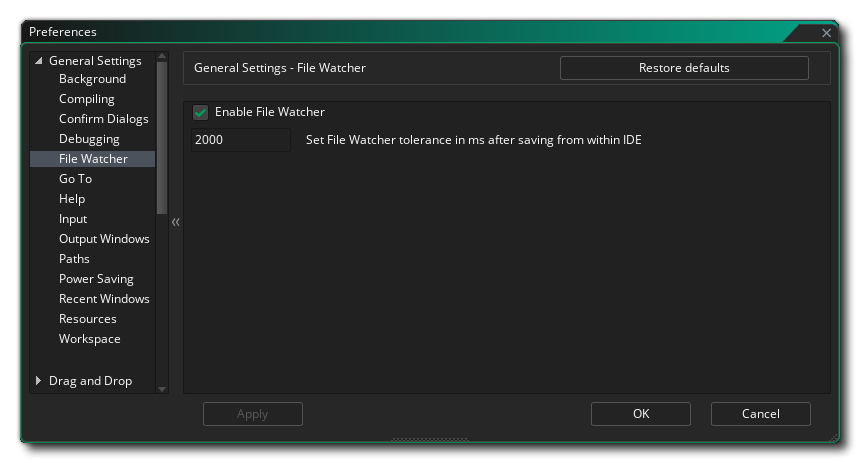
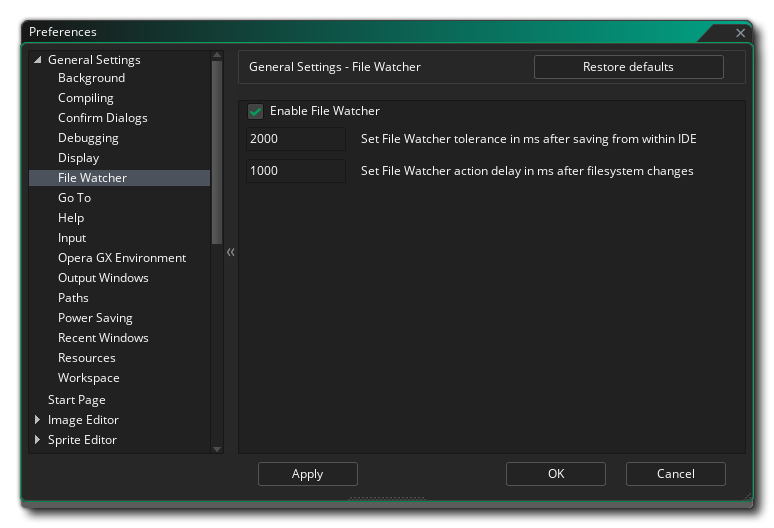
docs(feature): File Watcher Preferences page does not describe a "delay in filesystem changes" addition https://github.com/YoYoGames/GameMaker-Bugs/issues/6309
Updated the screenshot and added a description for the preference

diff --git a/Manual/contents/Setting_Up_And_Version_Information/IDE_Preferences/General/File_Watcher.htm b/Manual/contents/Setting_Up_And_Version_Information/IDE_Preferences/General/File_Watcher.htm
@@ -4,7 +4,7 @@
 <head>
   <meta http-equiv="Content-Type" content="text/html; charset=utf-8" />
   <title>File Watcher</title>
-  <meta name="generator" content="Adobe RoboHelp 2019" />
+  <meta name="generator" content="Adobe RoboHelp 2022" />
   <link rel="stylesheet" href="../../../assets/css/default.css" type="text/css" />
   <script src="../../../assets/scripts/main_script.js" type="module"></script>
   <meta name="rh-authors" content="Mark Alexander" />
@@ -16,17 +16,13 @@
   <!--<div class="body-scroll" style="top: 150px;">-->
   <h1>File Watcher Preferences</h1>
   <p><img alt="File Watcher Preferences" class="center" src="../../../assets/Images/Setup_And_Version/Preferences/General_FileWatcher_Prefs.png" /></p>
-  <p>The <strong>File Watcher</strong> is the name given to the part of the IDE that watches the files related to a project for any changes due to external software (ie: editing an image in an external editor) or due to internal changes like editing a script
-    asset. In general, these settings shouldn&#39;t need to be edited, but on some systems - like those that use an SSD as the save drive for the project files - the file watcher may be informing you of changes when you do things like simply saving the
-    project or whenever you edit any project asset, in which case you may need to change these settings.</p>
+  <p>The <strong>File Watcher</strong> is the name given to the part of the IDE that watches the files related to a project for any changes due to external software (i.e.: editing an image in an external editor) or due to internal changes like editing a script asset. In general, these settings shouldn&#39;t need to be edited, but on some systems - like those that use an SSD as the save drive for the project files - the file watcher may be informing you of changes when you do things like simply saving the project or whenever you edit any project asset, in which case you may need to change these settings.</p>
   <p>The settings available are:</p>
   <ul class="colour">
-    <li><strong>Enable File Watcher</strong>: This can be used to enable or disable the File Watcher system. If this is disabled, <strong>the IDE will no longer pick up on any files changed by external sources</strong>, so care should be taken when disabling
-      this feature. The File Watcher is enabled by default.</li>
-    <li><strong>Set File Watcher tolerance in MS after saving In the IDE</strong>: This adjusts the time between saving a file and the file watcher checking for changes. You would adjust this value if you were saving your project and the File Watcher was
-      erroneously appearing saying something had changed, in which case you would increase the delay until the message no longer appears. The default value is 2000ms, but can range from 1ms up to 10,000ms. </li>
+    <li><strong>Enable File Watcher</strong>: This can be used to enable or disable the File Watcher system. If this is disabled, <strong>the IDE will no longer pick up on any files changed by external sources</strong>, so care should be taken when disabling this feature. The File Watcher is enabled by default.</li>
+    <li><strong>Set File Watcher tolerance in MS after saving In the IDE</strong>: This adjusts the time between saving a file and the file watcher checking for changes. You would adjust this value if you were saving your project and the File Watcher was erroneously appearing saying something had changed, in which case you would increase the delay until the message no longer appears. The default value is 2000ms, but can range from 1ms up to 10,000ms.</li>
+    <li><strong>Set File Watcher action delay in ms after filesystem changes</strong>: This adjusts the time the File Watcher waits before it takes into account changes in detected in the filesystem. The default value is 1000ms.</li>
   </ul>
-  <p> </p>
   <p> </p>
   <p> </p>
   <div class="footer">
@@ -36,7 +32,7 @@
         <div style="float:right">Next: <a href="Go_To.htm">Go To Preferences</a></div>
       </div>
     </div>
-    <h5><span data-keyref="Copyright Notice">© Copyright YoYo Games Ltd. 2021 All Rights Reserved</span></h5>
+    <h5><span data-keyref="Copyright Notice">© Copyright YoYo Games Ltd. 2024 All Rights Reserved</span></h5>
   </div>
   <!-- KEYWORDS
 Preferences - General, File Watcher
